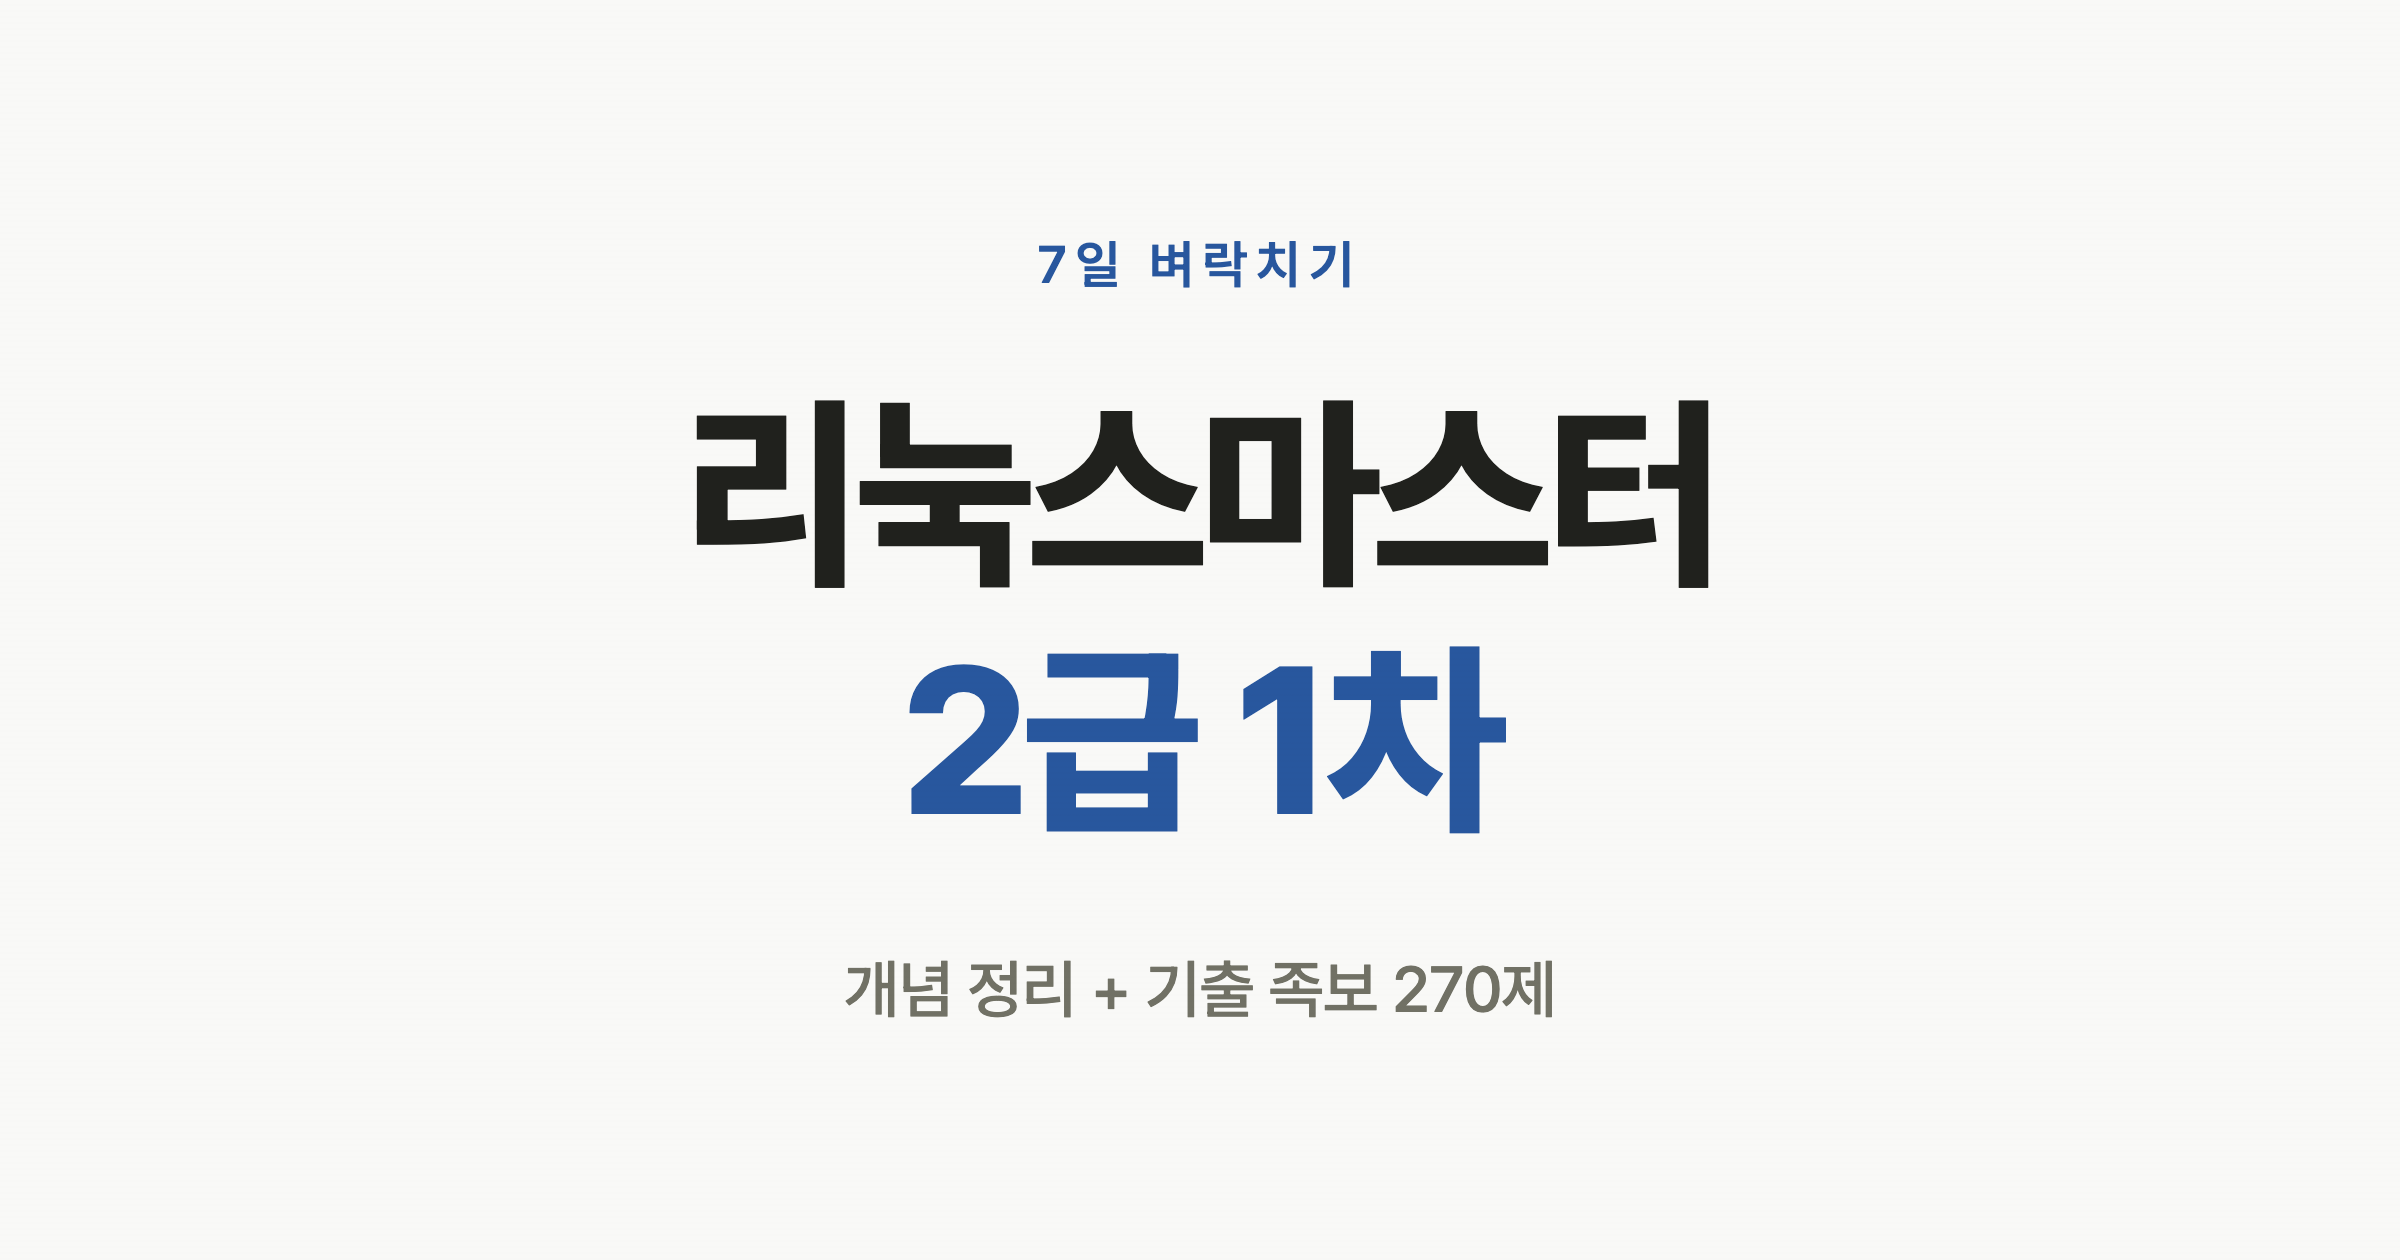
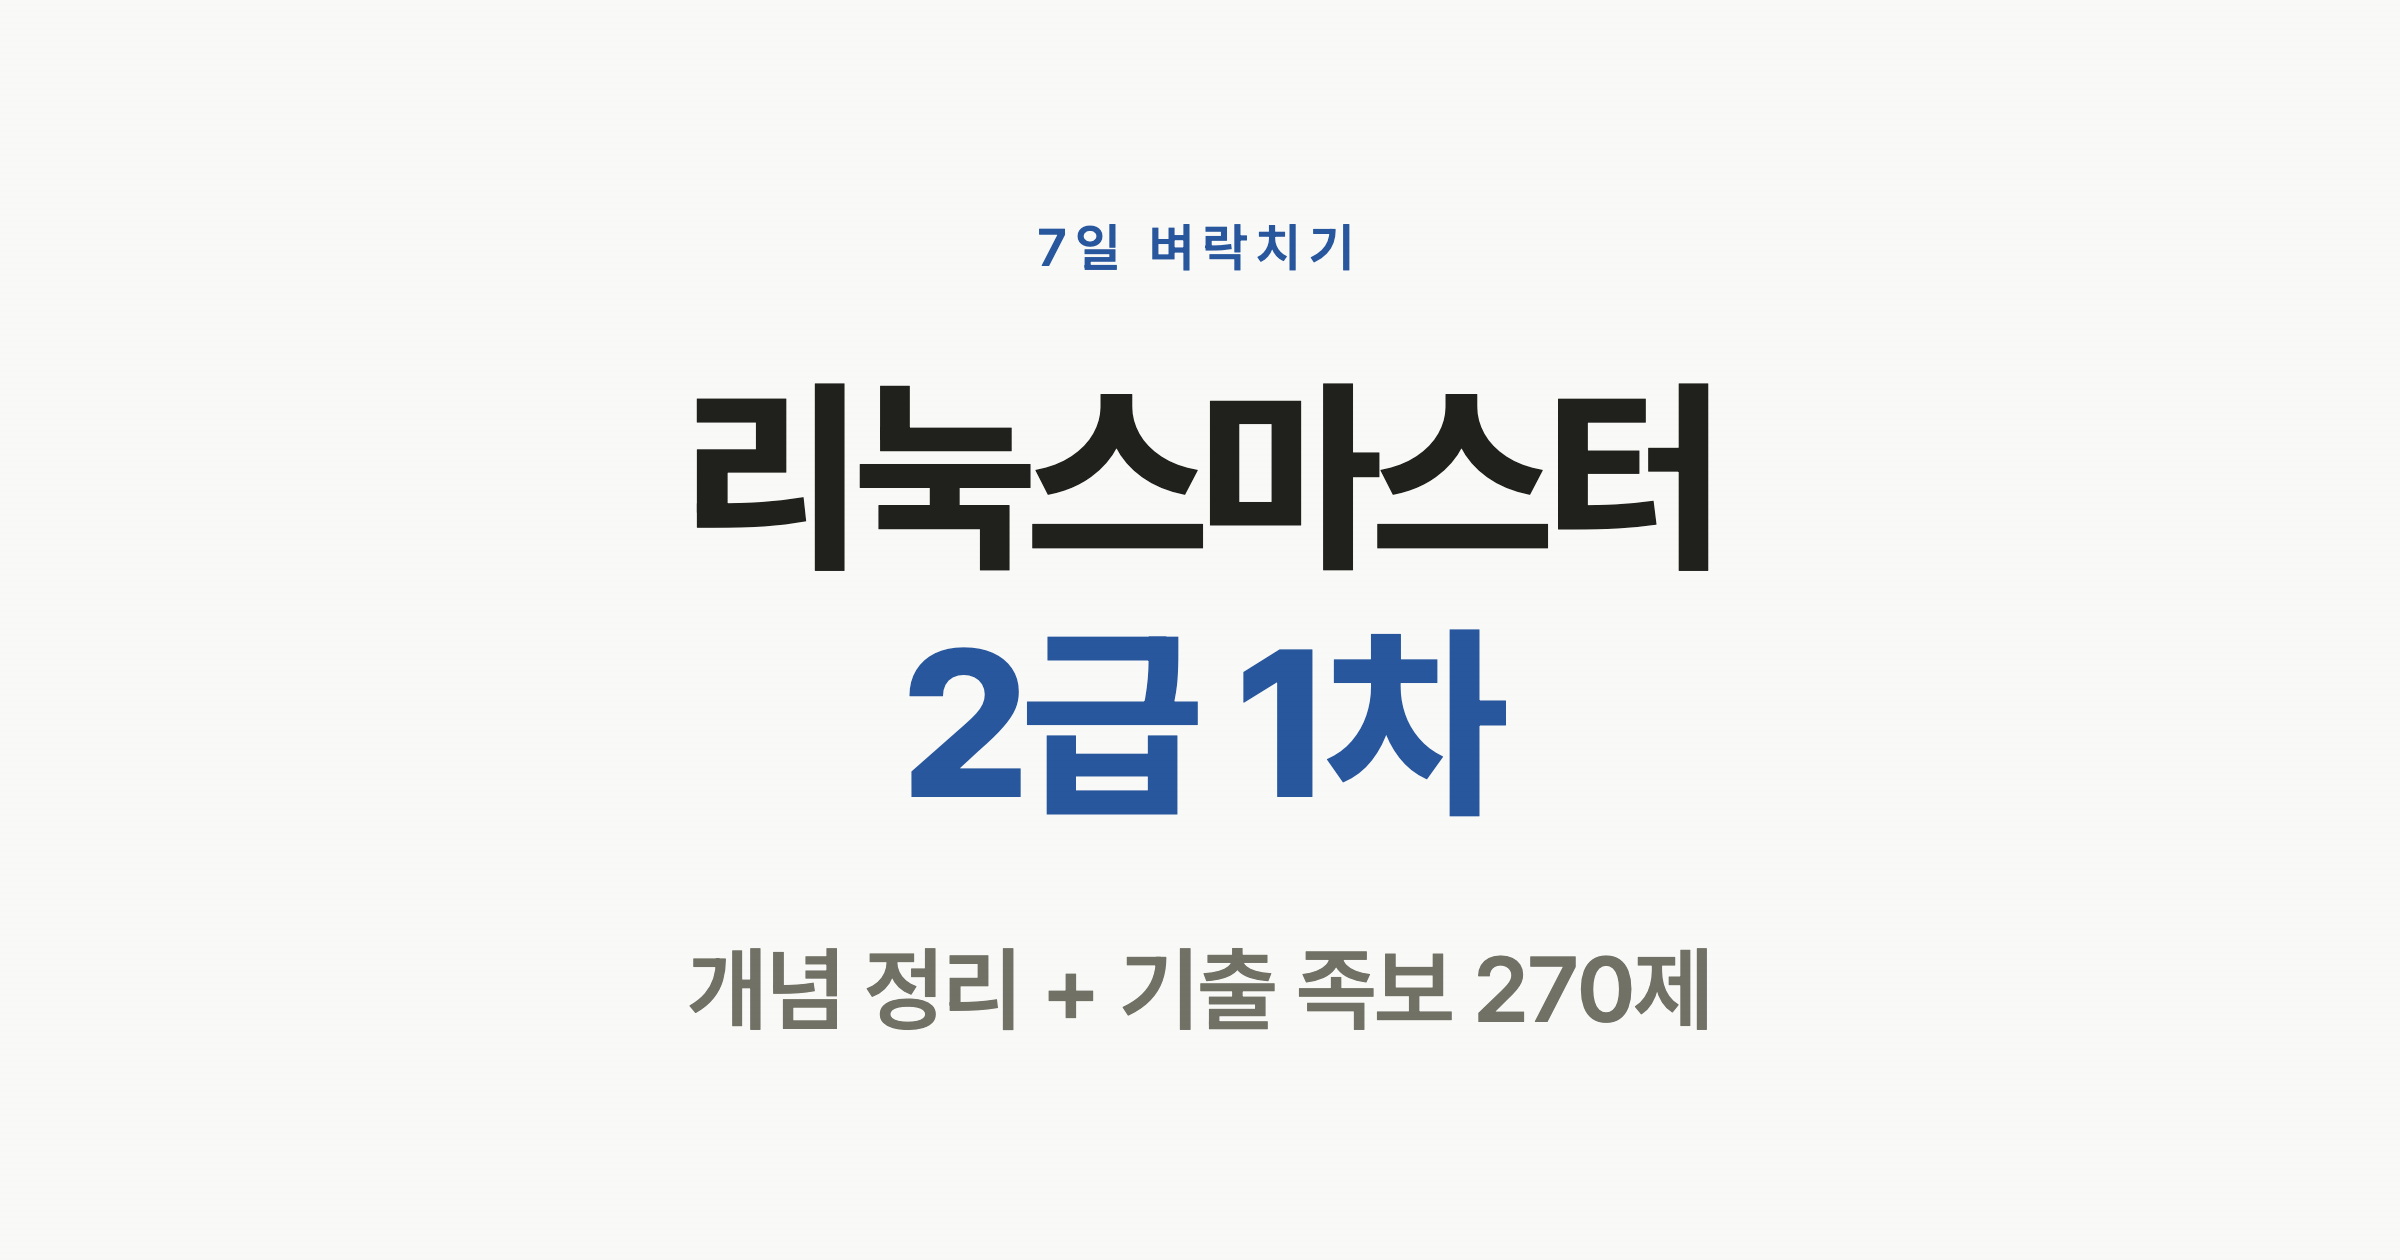
og:image 부제 글씨 키움 (32px -> 46px)
카톡 카드 크기에서 "개념 정리 + 기출 족보 270제"가 너무 작게 보여
키우고 굵기도 한 단계 올렸다.

diff --git a/og-card.html b/og-card.html
@@ -81,8 +81,8 @@ body{
 
 .sub{
   margin-top:44px;
-  font-size:32px;
-  font-weight:500;
+  font-size:46px;
+  font-weight:600;
   color:var(--text-muted);
   letter-spacing:-.015em;
 }
